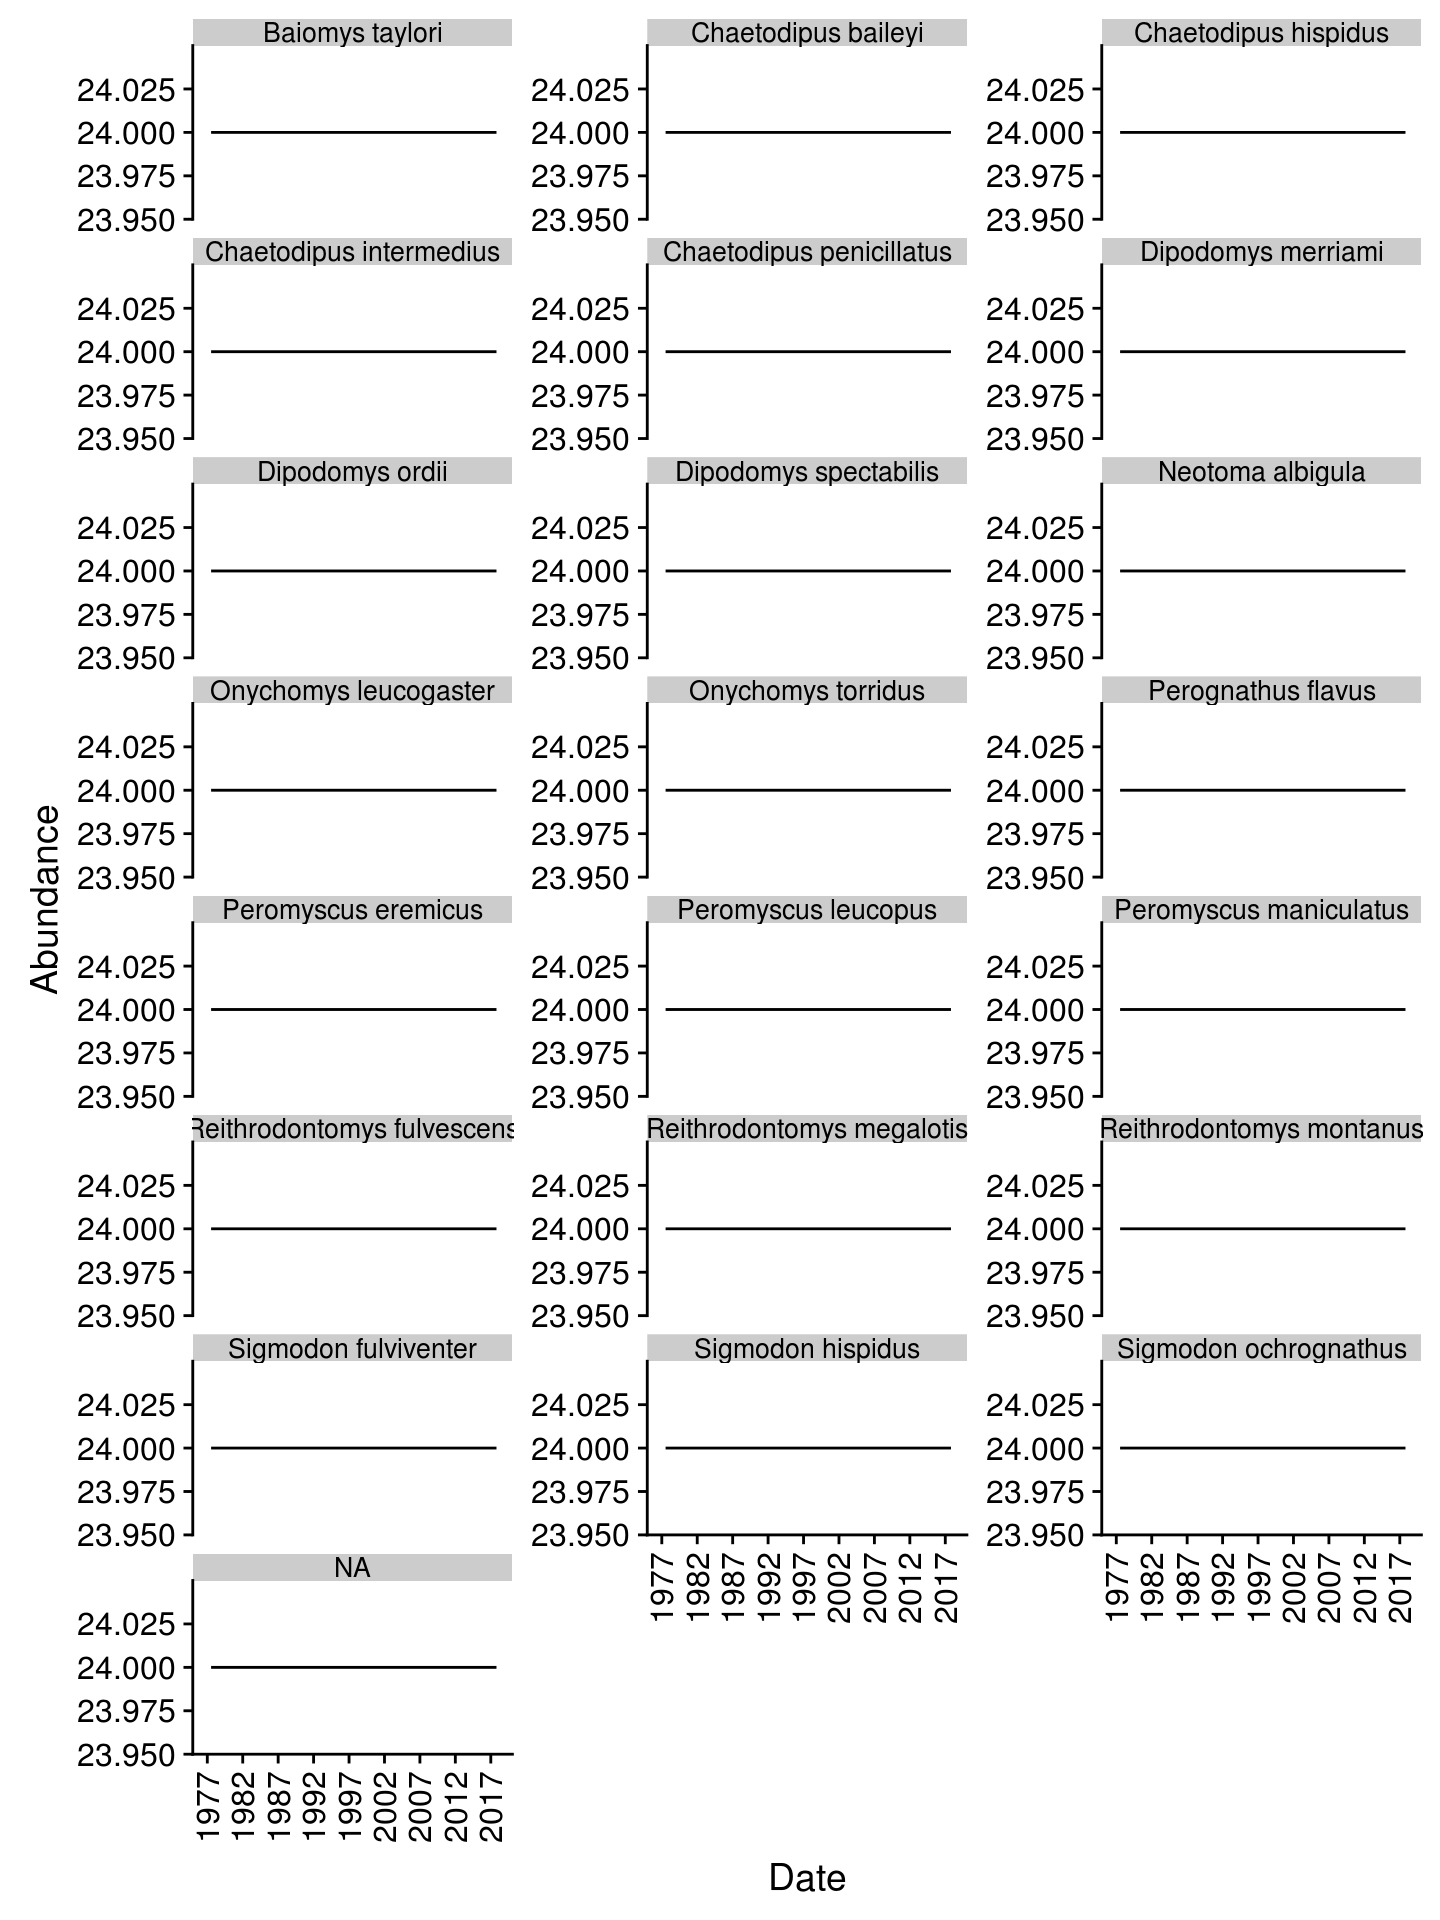
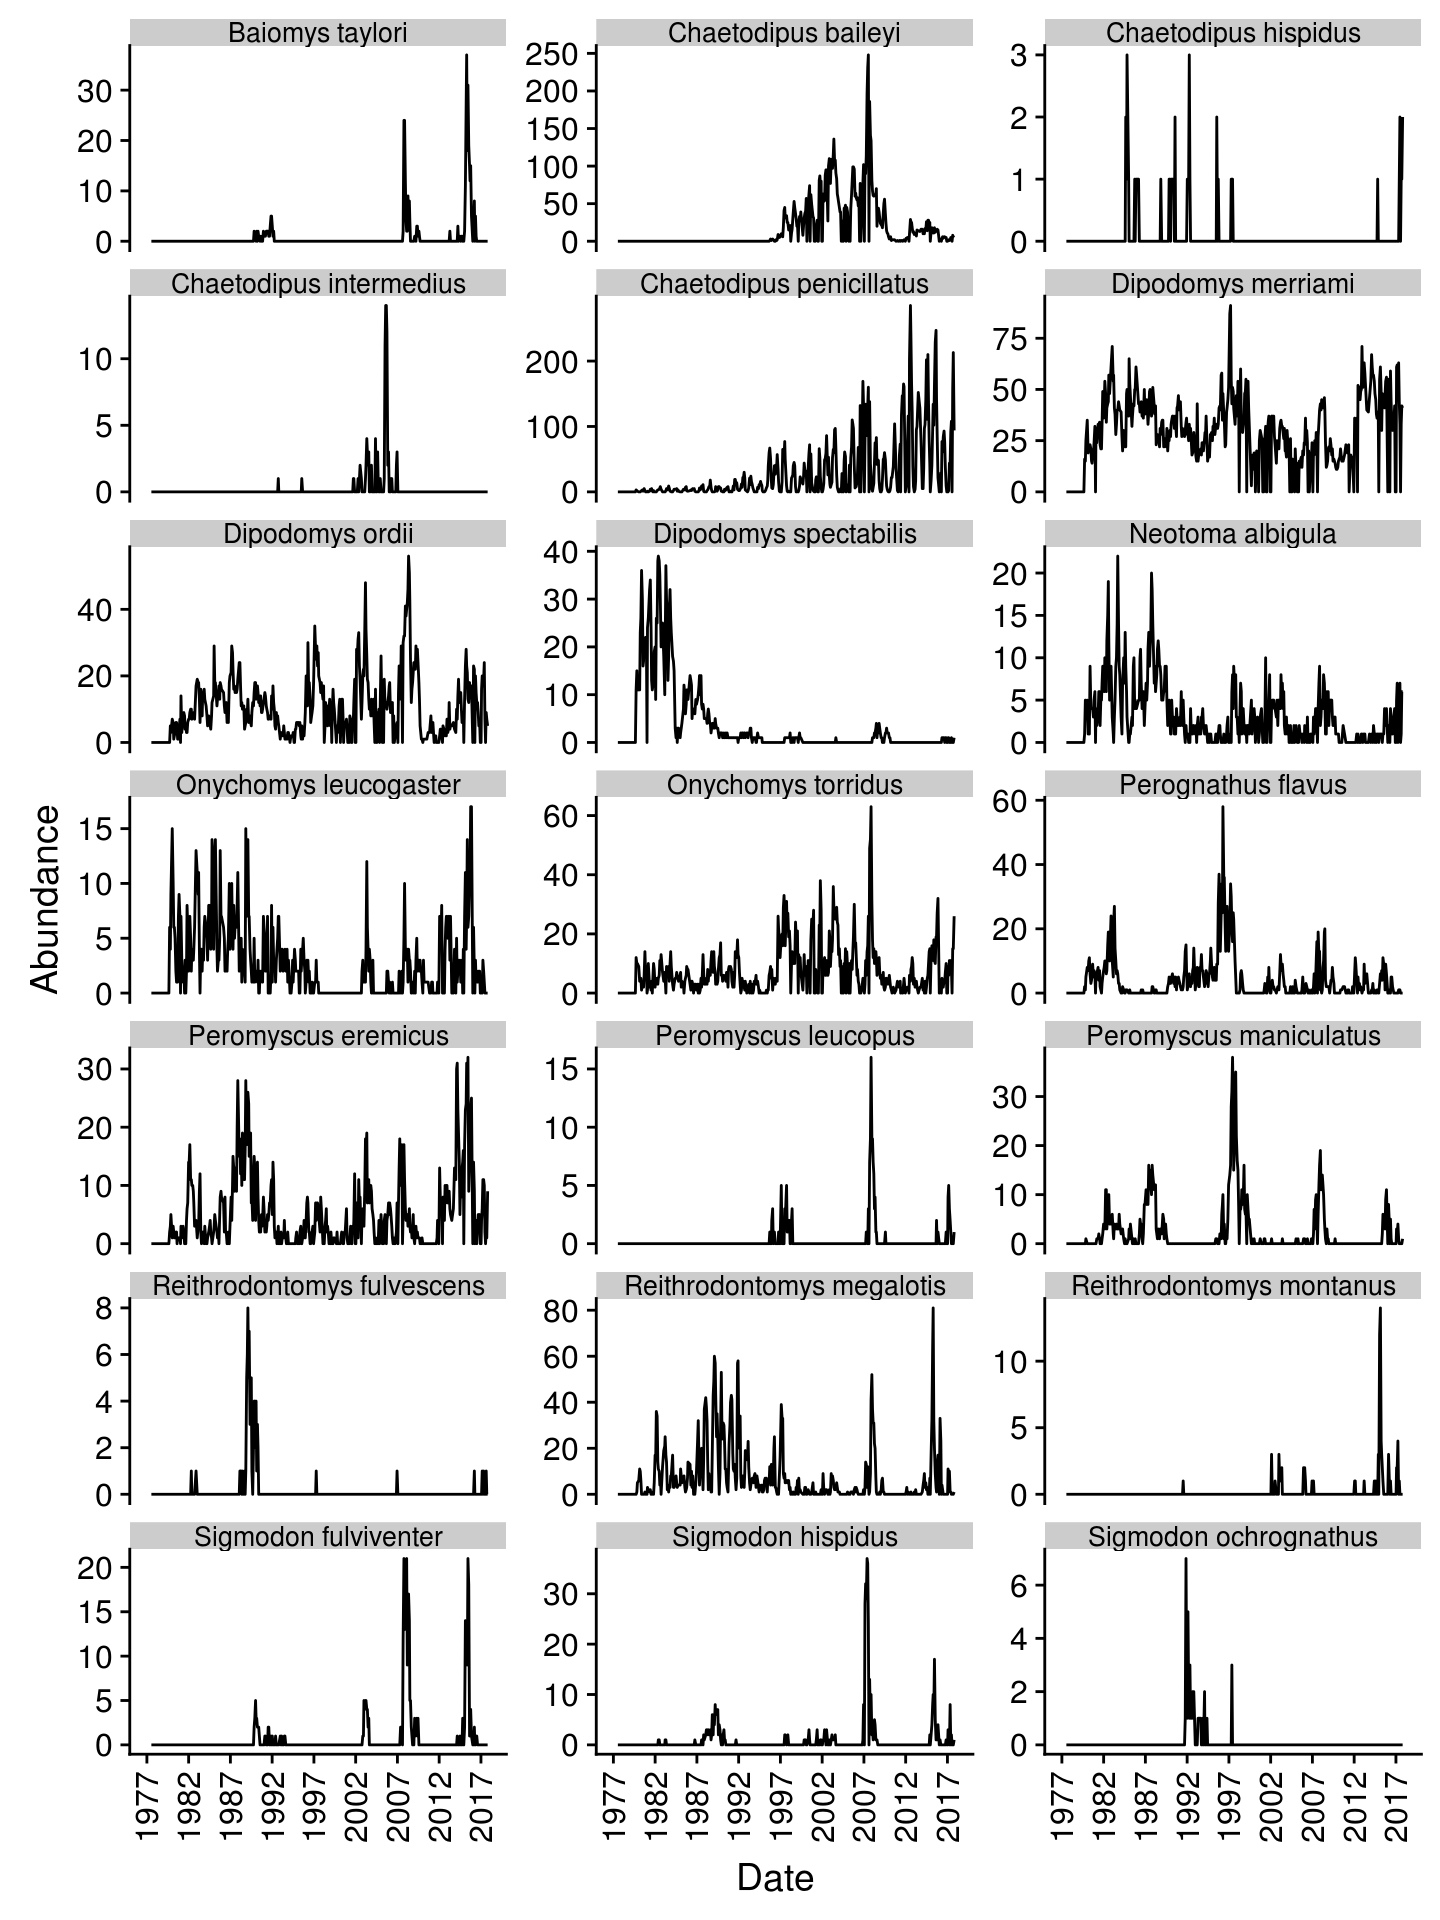
Deploy weecology/portalr to github.com/weecology/portalr.git:gh-pages

Changed region(s): [[0.0312, 0.0, 1.0, 1.0], [0.25, 0.0625, 0.2812, 0.0938]]

diff --git a/articles/rodent-abundance-demo.html b/articles/rodent-abundance-demo.html
@@ -83,7 +83,7 @@
       <h1>Portal Rodent Abundance Demo</h1>
                         <h4 class="author">Hao Ye</h4>
             
-            <h4 class="date">2018-12-21</h4>
+            <h4 class="date">2018-12-28</h4>
       
       <small class="dont-index">Source: <a href="https://github.com/weecology/portalr/blob/master/vignettes/rodent-abundance-demo.Rmd"><code>vignettes/rodent-abundance-demo.Rmd</code></a></small>
       <div class="hidden name"><code>rodent-abundance-demo.Rmd</code></div>
@@ -118,7 +118,7 @@
 <p>check whether we already have the data. If we don’t have the data, or if the version we have isn’t the most recent, we use the <code>download_observations</code> function to download the latest copy of the data.</p>
 <div class="sourceCode" id="cb2"><pre class="sourceCode r"><code class="sourceCode r"><a class="sourceLine" id="cb2-1" data-line-number="1">portal_data_path &lt;-<span class="st"> </span><span class="kw"><a href="https://www.rdocumentation.org/packages/base/topics/tempfile">tempdir</a></span>() <span class="co"># use a temporary folder to store downloaded data</span></a>
 <a class="sourceLine" id="cb2-2" data-line-number="2">data_tables &lt;-<span class="st"> </span><span class="kw"><a href="../reference/load_data.html">load_data</a></span>(portal_data_path, <span class="dt">download_if_missing =</span> <span class="ot">TRUE</span>)</a>
-<a class="sourceLine" id="cb2-3" data-line-number="3"><span class="co">#&gt; Warning in load_generic_data(data_files, na_strings, path, download_if_missing): Proceeding to download data into specified path/tmp/RtmpmJRDHw</span></a>
+<a class="sourceLine" id="cb2-3" data-line-number="3"><span class="co">#&gt; Warning in load_generic_data(data_files, na_strings, path, download_if_missing): Proceeding to download data into specified path/tmp/Rtmp9bN2d1</span></a>
 <a class="sourceLine" id="cb2-4" data-line-number="4"><span class="co">#&gt; Downloading version 1.66.0 of the data...</span></a>
 <a class="sourceLine" id="cb2-5" data-line-number="5"><span class="co">#&gt; Loading in data version 1.66.0</span></a></code></pre></div>
 <p>The <code>load_data</code> function reads in several tables related to the rodent abundances. We won’t necessarily use all of these tables, but loading this now gives us access later.</p>
@@ -139,17 +139,17 @@
 <a class="sourceLine" id="cb4-3" data-line-number="3"><span class="co">#&gt; Loading in data version 1.66.0</span></a>
 <a class="sourceLine" id="cb4-4" data-line-number="4"></a>
 <a class="sourceLine" id="cb4-5" data-line-number="5">rodent_abundance &lt;-<span class="st"> </span>rodent_abundance_by_plot <span class="op">%&gt;%</span></a>
-<a class="sourceLine" id="cb4-6" data-line-number="6"><span class="st">  </span><span class="kw">gather</span>(species, abundance, <span class="op">-</span>censusdate, <span class="op">-</span>plot) <span class="op">%&gt;%</span></a>
-<a class="sourceLine" id="cb4-7" data-line-number="7"><span class="st">  </span><span class="kw">count</span>(species, censusdate) <span class="op">%&gt;%</span></a>
+<a class="sourceLine" id="cb4-6" data-line-number="6"><span class="st">  </span><span class="kw">gather</span>(species, abundance, <span class="op">-</span>censusdate, <span class="op">-</span>treatment, <span class="op">-</span>plot) <span class="op">%&gt;%</span></a>
+<a class="sourceLine" id="cb4-7" data-line-number="7"><span class="st">  </span><span class="kw">count</span>(species, censusdate, <span class="dt">wt =</span> abundance) <span class="op">%&gt;%</span></a>
 <a class="sourceLine" id="cb4-8" data-line-number="8"><span class="st">  </span><span class="kw">rename</span>(<span class="dt">abundance =</span> n)</a>
 <a class="sourceLine" id="cb4-9" data-line-number="9"><span class="kw"><a href="https://www.rdocumentation.org/packages/base/topics/print">print</a></span>(<span class="kw"><a href="https://www.rdocumentation.org/packages/base/topics/summary">summary</a></span>(rodent_abundance))</a>
-<a class="sourceLine" id="cb4-10" data-line-number="10"><span class="co">#&gt;    species            censusdate           abundance </span></a>
-<a class="sourceLine" id="cb4-11" data-line-number="11"><span class="co">#&gt;  Length:10274       Min.   :1977-07-16   Min.   :24  </span></a>
-<a class="sourceLine" id="cb4-12" data-line-number="12"><span class="co">#&gt;  Class :character   1st Qu.:1987-11-21   1st Qu.:24  </span></a>
-<a class="sourceLine" id="cb4-13" data-line-number="13"><span class="co">#&gt;  Mode  :character   Median :1997-07-29   Median :24  </span></a>
-<a class="sourceLine" id="cb4-14" data-line-number="14"><span class="co">#&gt;                     Mean   :1997-09-13   Mean   :24  </span></a>
-<a class="sourceLine" id="cb4-15" data-line-number="15"><span class="co">#&gt;                     3rd Qu.:2007-08-11   3rd Qu.:24  </span></a>
-<a class="sourceLine" id="cb4-16" data-line-number="16"><span class="co">#&gt;                     Max.   :2017-10-21   Max.   :24</span></a></code></pre></div>
+<a class="sourceLine" id="cb4-10" data-line-number="10"><span class="co">#&gt;    species            censusdate           abundance      </span></a>
+<a class="sourceLine" id="cb4-11" data-line-number="11"><span class="co">#&gt;  Length:9807        Min.   :1977-07-16   Min.   :  0.000  </span></a>
+<a class="sourceLine" id="cb4-12" data-line-number="12"><span class="co">#&gt;  Class :character   1st Qu.:1987-11-21   1st Qu.:  0.000  </span></a>
+<a class="sourceLine" id="cb4-13" data-line-number="13"><span class="co">#&gt;  Mode  :character   Median :1997-07-29   Median :  0.000  </span></a>
+<a class="sourceLine" id="cb4-14" data-line-number="14"><span class="co">#&gt;                     Mean   :1997-09-13   Mean   :  5.953  </span></a>
+<a class="sourceLine" id="cb4-15" data-line-number="15"><span class="co">#&gt;                     3rd Qu.:2007-08-11   3rd Qu.:  4.000  </span></a>
+<a class="sourceLine" id="cb4-16" data-line-number="16"><span class="co">#&gt;                     Max.   :2017-10-21   Max.   :285.000</span></a></code></pre></div>
 <p>Let’s convert the data to long format for easier facetting. Also, we want the scientific names instead of the two-letter species codes, so let’s do that matching, too:</p>
 <div class="sourceCode" id="cb5"><pre class="sourceCode r"><code class="sourceCode r"><a class="sourceLine" id="cb5-1" data-line-number="1">join_scientific_name &lt;-<span class="st"> </span><span class="cf">function</span>(rodent_abundance, </a>
 <a class="sourceLine" id="cb5-2" data-line-number="2">                                 <span class="dt">species_table =</span> data_tables<span class="op">$</span>species_table)</a>

diff --git a/articles/portal_researcher_examples.html b/articles/portal_researcher_examples.html
@@ -83,7 +83,7 @@
       <h1>Examples of How Portal Researchers Are Using the Package</h1>
                         <h4 class="author">Ellen K. Bledsoe</h4>
             
-            <h4 class="date">2018-12-21</h4>
+            <h4 class="date">2018-12-28</h4>
       
       <small class="dont-index">Source: <a href="https://github.com/weecology/portalr/blob/master/vignettes/portal_researcher_examples.Rmd"><code>vignettes/portal_researcher_examples.Rmd</code></a></small>
       <div class="hidden name"><code>portal_researcher_examples.Rmd</code></div>
